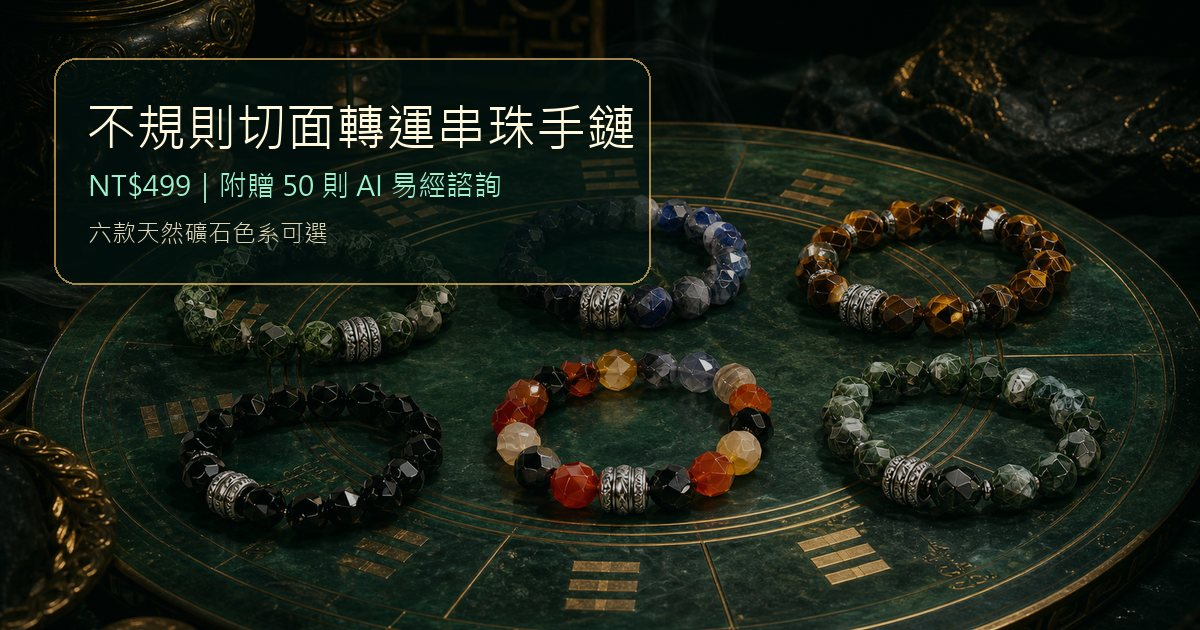
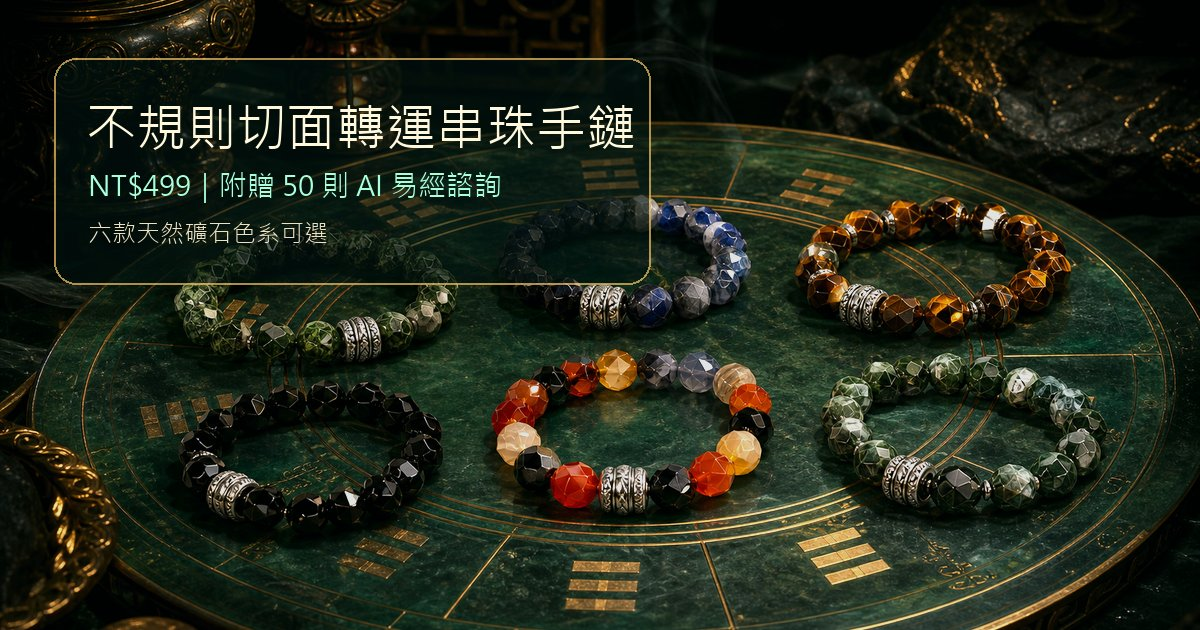
Brighten bracelet product visuals

diff --git a/index.html b/index.html
@@ -14,8 +14,8 @@
     <meta property="og:title" content="不規則切面轉運串珠手鏈｜易策玄占" />
     <meta property="og:description" content="天然寶石串珠手鏈 NT$499，附贈 50 則 AI 易經諮詢。" />
     <meta property="og:url" content="https://iching-oracle-pwa.vercel.app/" />
-    <meta property="og:image" content="https://iching-oracle-pwa.vercel.app/assets/bracelet-og.jpg?v=20260709b" />
-    <meta property="og:image:secure_url" content="https://iching-oracle-pwa.vercel.app/assets/bracelet-og.jpg?v=20260709b" />
+    <meta property="og:image" content="https://iching-oracle-pwa.vercel.app/assets/bracelet-og.jpg?v=20260709c" />
+    <meta property="og:image:secure_url" content="https://iching-oracle-pwa.vercel.app/assets/bracelet-og.jpg?v=20260709c" />
     <meta property="og:image:type" content="image/jpeg" />
     <meta property="og:image:width" content="1200" />
     <meta property="og:image:height" content="630" />
@@ -23,7 +23,7 @@
     <meta name="twitter:card" content="summary_large_image" />
     <meta name="twitter:title" content="不規則切面轉運串珠手鏈｜易策玄占" />
     <meta name="twitter:description" content="天然寶石串珠手鏈 NT$499，附贈 50 則 AI 易經諮詢。" />
-    <meta name="twitter:image" content="https://iching-oracle-pwa.vercel.app/assets/bracelet-og.jpg?v=20260709b" />
+    <meta name="twitter:image" content="https://iching-oracle-pwa.vercel.app/assets/bracelet-og.jpg?v=20260709c" />
     <link rel="manifest" href="./manifest.webmanifest" />
     <link rel="icon" type="image/png" href="./assets/favicon.png" />
     <link rel="apple-touch-icon" sizes="180x180" href="./assets/icon-180.png" />

diff --git a/sw.js b/sw.js
@@ -1,4 +1,4 @@
-const CACHE_NAME = "iching-oracle-v34";
+const CACHE_NAME = "iching-oracle-v35";
 const APP_SHELL = [
   "./",
   "./index.html",